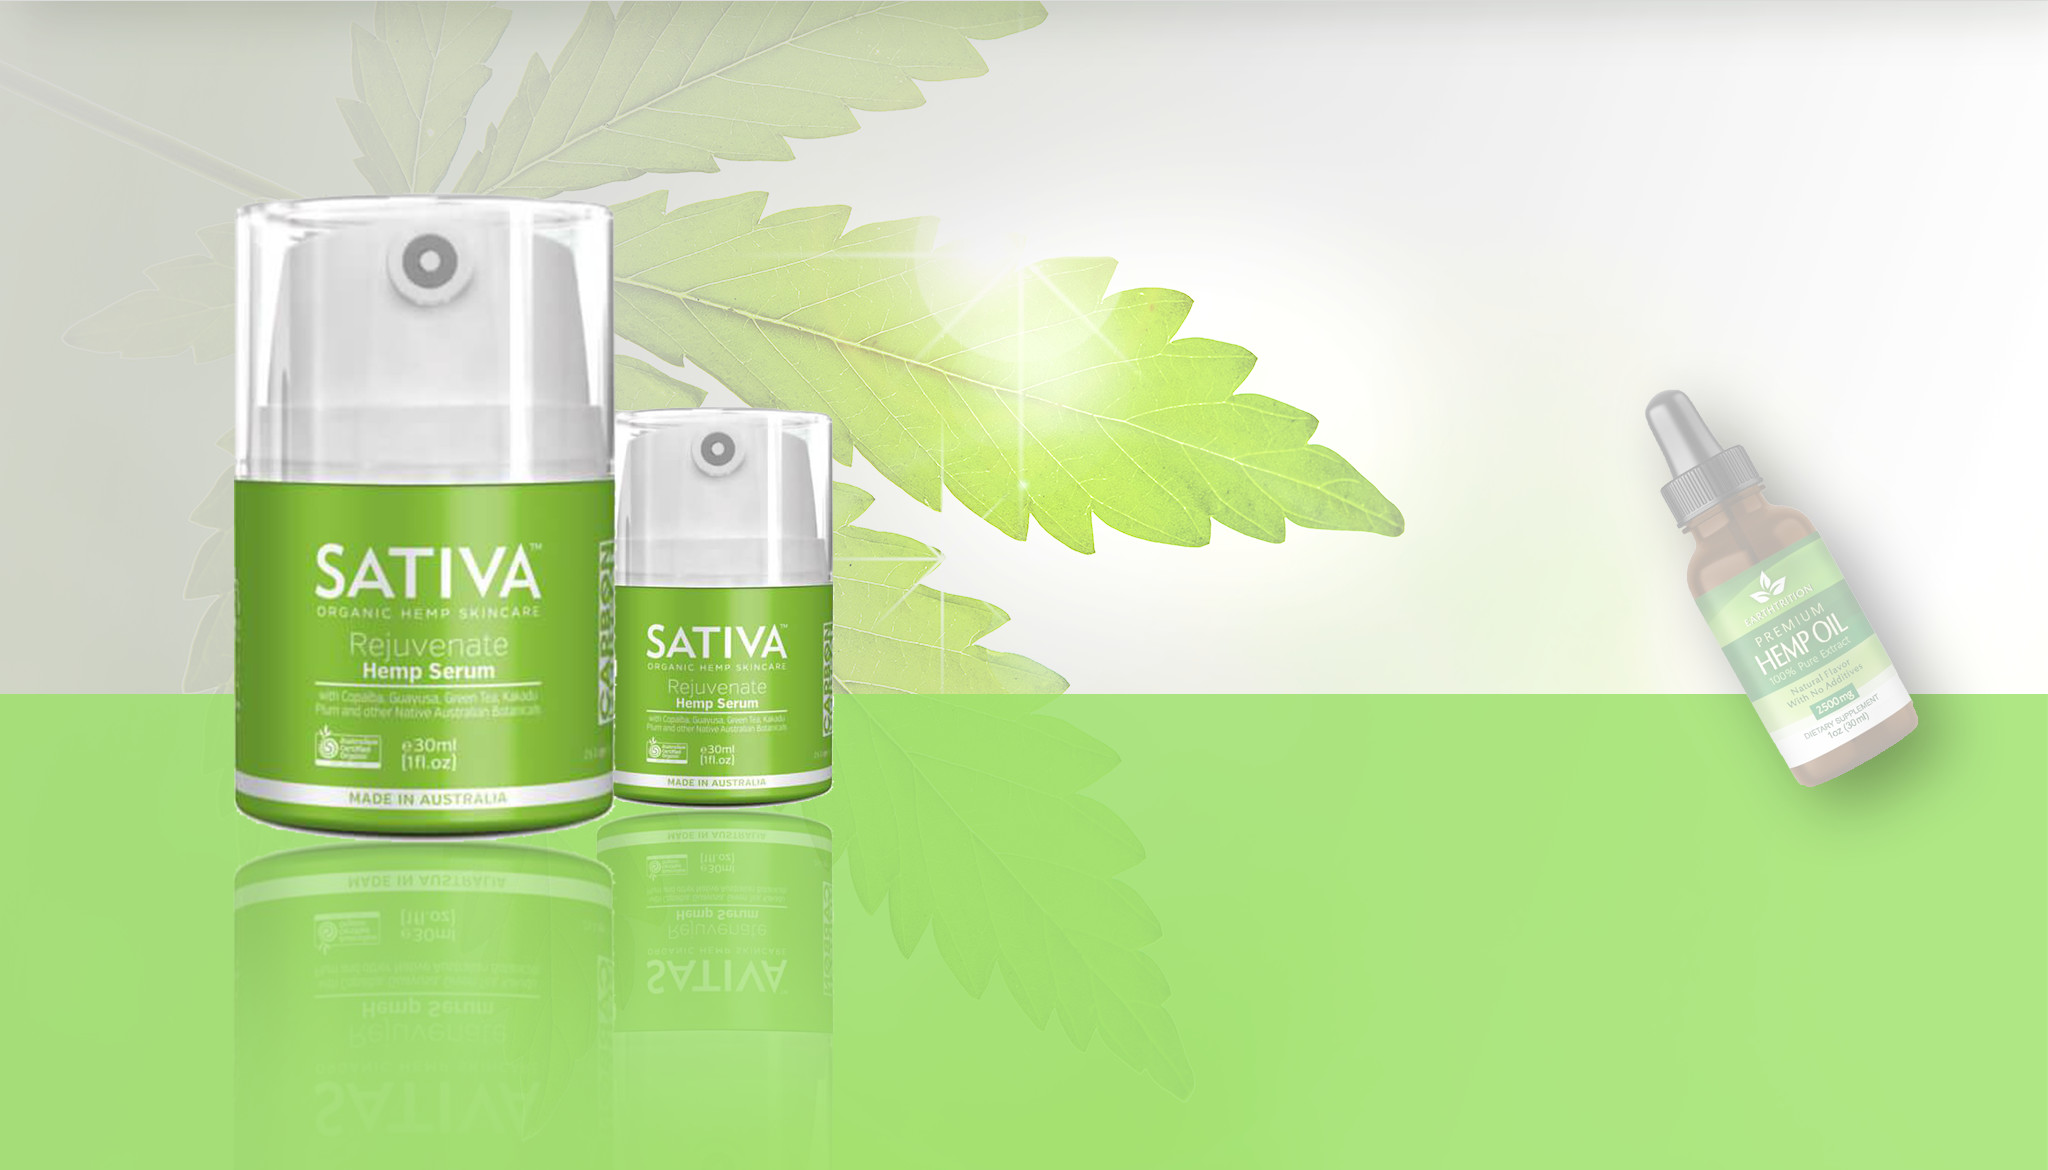
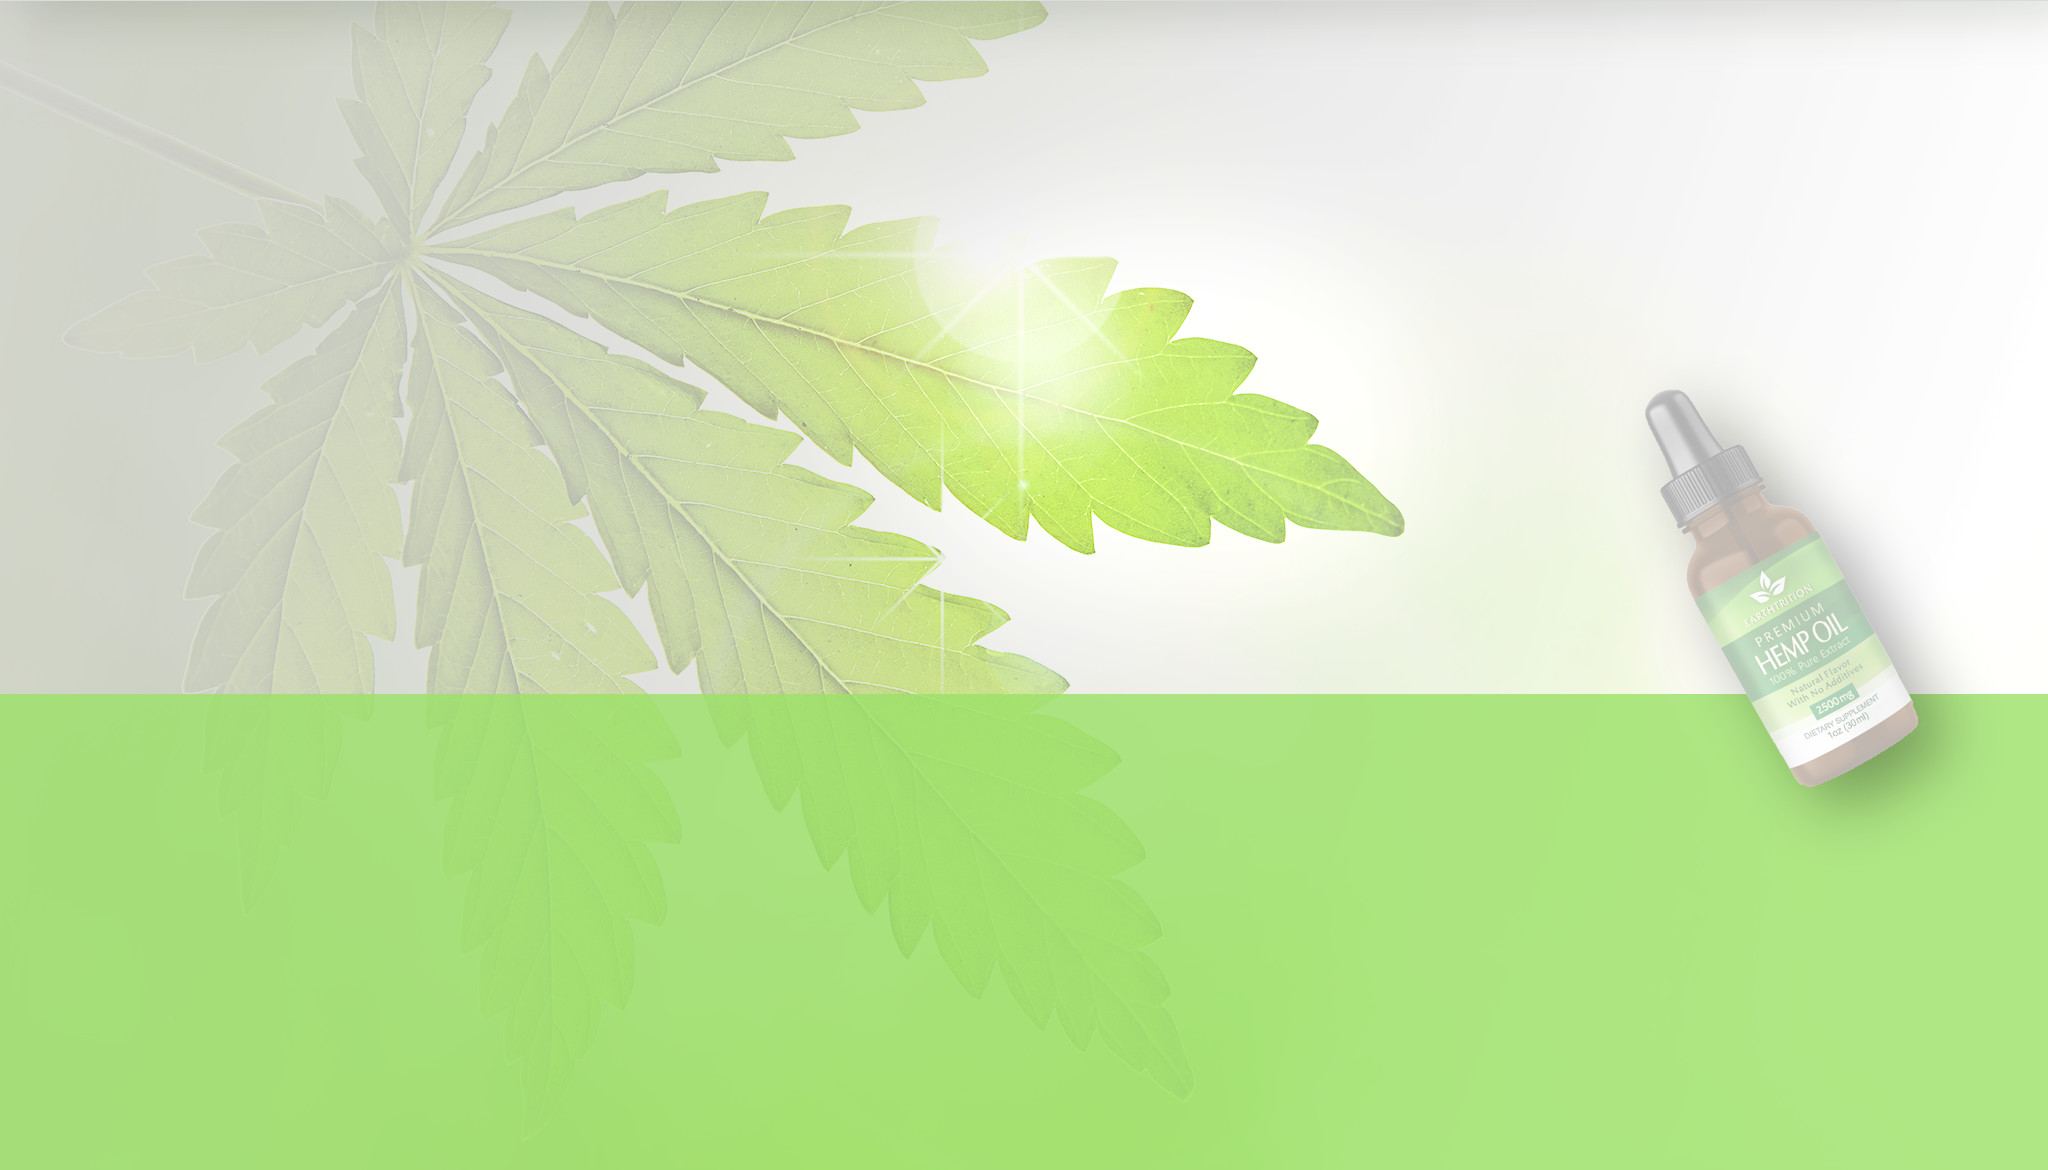
weed

Changed region(s): [[0.0938, 0.1538, 0.4062, 0.7692]]

diff --git a/assets/js/app.js b/assets/js/app.js
@@ -6,6 +6,27 @@
 //   }
 // }
 //
+
+
+// baner bottles animation
+// baner bottles animation
+// baner bottles animation
+var oilBottles = document.getElementsByClassName("oilBottles")[0];
+var bottleShadow = document.getElementsByClassName("bottleShadow")[0];
+function oilBotFun(){
+  oilBottles.style.left = '8.2vw'
+  bottleShadow.style.left = '8.2vw'
+  oilBottles.style.opacity = '0.5';
+  bottleShadow.style.opacity = '0.5';
+  setTimeout(function () {
+    oilBottles.style.opacity = '1';
+    bottleShadow.style.opacity = '1';
+  }, 1500);
+}
+
+window.onload = function(){
+  oilBotFun();
+}
 // window.onscroll = function(){
 //   mobVidCall();
 // }

diff --git a/assets/css/style.css b/assets/css/style.css
@@ -84,12 +84,27 @@ main{
   width: 100%;
 }
 .oilBottles{
+  transition: 3s;
+  opacity: 0;
   position: absolute;
-  width: 40.0195vw;
-  height: 41.825vw;
-  left: 8.2vw;
-  bottom: 11.788vw;
+  width: 29.331vw;
+  height: 31.771vw;
+  /* left: 8.2vw; */
+  left: 0vw;
+  bottom: 15.788vw;
 }
+.bottleShadow{
+  transition: 3s;
+  opacity: 0;
+  position: absolute;
+  width: 29.38vw;
+  bottom: -1.4vw;
+  /* left: 8.2vw; */
+  left: 0vw;
+  height: 18.771vw;
+}
+
+
 h1 span{
   color: rgb(68,68,68);
   font-family: 'Harmony';

diff --git a/index.html b/index.html
@@ -28,7 +28,8 @@
 
     <main>
         <img class="bg" src="assets\images\bgTwo.jpg" alt="">
-        <!-- <img class="oilBottles" src="assets\images\oilBottles.png" alt=""> -->
+        <img class="oilBottles" src="assets\images\bottles.png" alt="">
+        <img class="bottleShadow" src="assets\images\bottlesShadow.png" alt="">
         <h1><span>Nature</span><br>
         PHARMACY</h1>
         <img class="oilDrop" src="assets\images\oilDrop.png" alt="">
